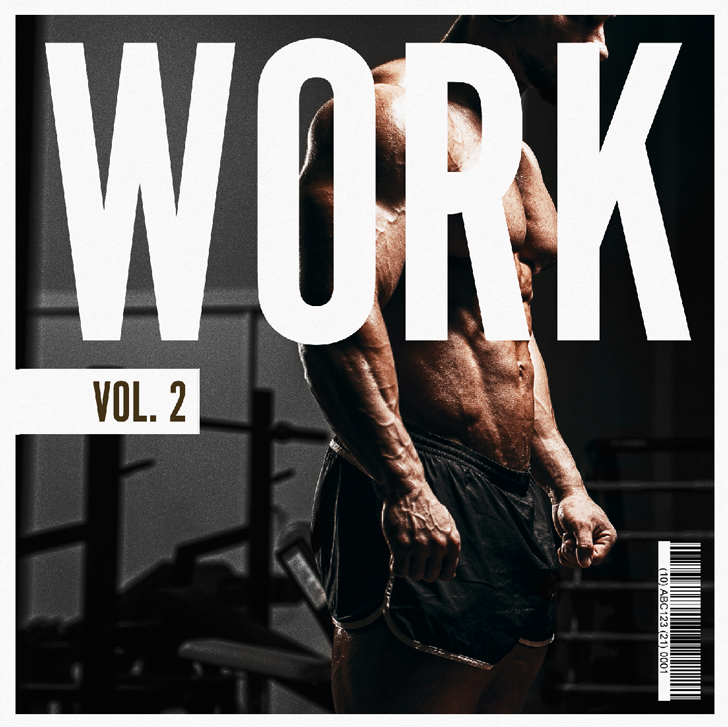
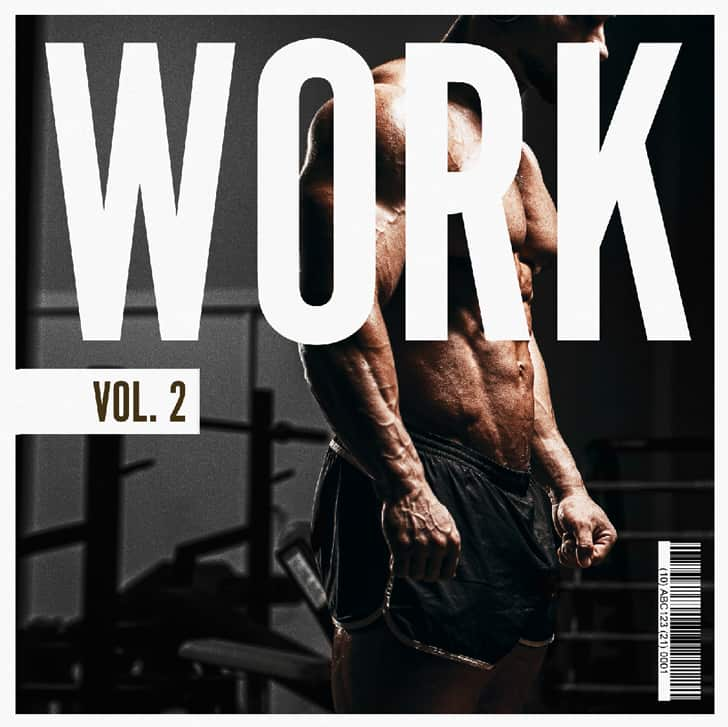
Redesigned image handling. Updated mobile layout to vertical

diff --git a/style.css b/style.css
@@ -1,1 +1,1 @@
-@import url("https://fonts.googleapis.com/css2?family=Padauk:wght@400;700&display=swap");*{margin:0;padding:0}:focus{outline:0}*,:after,:before{-webkit-box-sizing:border-box;box-sizing:border-box}body,html{width:100%;height:100%;background-color:#fff;font-family:'Padauk', sans-serif}.logo{display:block;position:fixed;left:120px;top:80px;width:292px;height:211px;background:url("img/head@2x.png");background-size:292px 211px;-webkit-transition:0.3s cubic-bezier(0.5, 1, 0.89, 1);-o-transition:0.3s cubic-bezier(0.5, 1, 0.89, 1);transition:0.3s cubic-bezier(0.5, 1, 0.89, 1)}@media (max-width:479px){.logo{left:50%;-webkit-transform:translateX(-50%) scale(0.8);-ms-transform:translateX(-50%) scale(0.8);transform:translateX(-50%) scale(0.8);top:3%}.logo.outofsight{opacity:0;top:0%}}.note{position:absolute;opacity:0;width:32px;height:32px;z-index:-2}.album-list{position:absolute;width:3600px;height:100%;z-index:1}@media (max-width:479px){.album-list{-webkit-transform:scale(0.6, 0.6);-ms-transform:scale(0.6, 0.6);transform:scale(0.6, 0.6);margin-left:-724px;bottom:2%}}.container-test{position:absolute;bottom:9%;width:4200px}@media (max-width:479px){.container-test{bottom:-20%}}.album{position:relative;display:inline-block;text-align:center;width:594px;height:403px;-webkit-transition:0.2s cubic-bezier(0.25, 1, 0.5, 1);-o-transition:0.2s cubic-bezier(0.25, 1, 0.5, 1);transition:0.2s cubic-bezier(0.25, 1, 0.5, 1)}.album.play{z-index:99}@media (min-width:480px){.album{margin-right:-120px}.album.play{-webkit-transform:translateX(-10%);-ms-transform:translateX(-10%);transform:translateX(-10%);margin-right:0px;margin-left:40px}}@media (max-width:479px){.album{margin-right:-120px}.album.play{-webkit-transform:translateX(-10%);-ms-transform:translateX(-10%);transform:translateX(-10%);margin-right:-10px}}.album a.CTAspotify{text-decoration:none;display:inline-block;position:absolute;right:114px;top:456px;color:#fff;background:#000;font-size:20px;font-weight:700;border:none;border-radius:50px;padding:4px 24px;opacity:0;-webkit-transition:0.3s cubic-bezier(0.5, 1, 0.89, 1);-o-transition:0.3s cubic-bezier(0.5, 1, 0.89, 1);transition:0.3s cubic-bezier(0.5, 1, 0.89, 1);z-index:5}.album.play a.CTAspotify{-webkit-transition-delay:2s;-o-transition-delay:2s;transition-delay:2s;opacity:1;-webkit-transform:translateY(-50px);-ms-transform:translateY(-50px);transform:translateY(-50px)}.album .albumName{position:absolute;display:inline-block;font-size:20px;font-weight:700;top:410px;left:115px;text-align:center;opacity:0;-webkit-transition:all 0.4s;-o-transition:all 0.4s;transition:all 0.4s}.album.play .albumName,.album:hover .albumName{opacity:1}.album .cover-shadow{left:0;position:absolute;display:inline-block;width:594px;height:403px;background:url("img/cover-shadow.png");background-size:594px 403px;z-index:0}.album .cover{Cursor:Pointer;webkit-tap-highlight-color:transparent;-webkit-user-select:none;-moz-user-select:none;-ms-user-select:none;user-select:none;position:absolute;left:19.6%;top:4.4%;width:364px;height:364px;z-index:1;cursor:pointer!important;user-select:none;-webkit-tap-highlight-color:transparent}.album .vinyl{webkit-tap-highlight-color:transparent;position:absolute;left:120px;top:5.2%;width:353px;height:358px;background-size:353px 358px;-webkit-transition:0.2s;-o-transition:0.2s;transition:0.2s;cursor:pointer;-webkit-user-select:none;-moz-user-select:none;-ms-user-select:none;user-select:none;-webkit-tap-highlight-color:transparent}.album .vinyl:after{display:block;position:absolute;content:"NEXT";top:170px;right:40px;color:rgba(255,255,255,0.8);font-size:18px;font-weight:700;-webkit-animation:pulse 6s ease-out alternate infinite;animation:pulse 6s ease-out alternate infinite}.album .vinyl.nonext:after{display:none}.album .vinyl .vinyl-img{width:353px;height:358px;background:url("img/vinyl.png");background-size:353px 358px;-webkit-animation:vinyl-rotate 10s linear infinite;animation:vinyl-rotate 10s linear infinite;-webkit-animation-play-state:paused;animation-play-state:paused;-webkit-user-select:none;-moz-user-select:none;-ms-user-select:none;user-select:none;-webkit-tap-highlight-color:transparent}.album.play .vinyl-img{-webkit-animation-play-state:running;animation-play-state:running}.album.play .vinyl{-webkit-transition:0.4s cubic-bezier(0.34, 1.56, 0.64, 1);-o-transition:0.4s cubic-bezier(0.34, 1.56, 0.64, 1);transition:0.4s cubic-bezier(0.34, 1.56, 0.64, 1);left:300px}.album .vinyl-shadow{position:absolute;left:30%;opacity:0;display:inline-block;width:594px;height:403px;background:url("img/vinyl-shadow.png");background-size:594px 403px;z-index:-1;-webkit-transition:0.2s linear;-o-transition:0.2s linear;transition:0.2s linear}.album.play .vinyl-shadow{opacity:1}.volume01 .cover{background:url("img/cover-1.jpg");background-size:364px 364px}.volume02 .cover{background:url("img/cover-2.jpg");background-size:364px 364px}.volume03 .cover{background:url("img/cover-3.jpg");background-size:364px 364px}.volume04 .cover{background:url("img/cover-4.jpg");background-size:364px 364px}.volume05 .cover{background:url("img/cover-5.jpg");background-size:364px 364px}.volume06 .cover{background:url("img/cover-6.jpg");background-size:364px 364px}.signup-form{display:inline-block;position:absolute;width:594px;height:403px;text-align:center;margin-top:100px;margin-left:150px;margin-right:50px}@media (max-width:479px){.signup-form{-webkit-transform:scale(1.2, 1.2);-ms-transform:scale(1.2, 1.2);transform:scale(1.2, 1.2)}}.signup-form h2{font-size:40px;font-weight:700;line-height:100%}.signup-form p{margin:24px auto;font-size:24px;line-height:120%;width:450px}.signup-form .mc-field-group{position:relative;display:inline-block;width:380px}.signup-form .button{position:absolute;display:inline-block;text-align:center;color:#fff;background:#f20001;font-size:20px;font-weight:700;border:none;border-radius:50px;padding:0px 24px;height:36px;top:8px;right:8px}.signup-form .button:hover{background:#bf0001}.signup-form .email{font-size:18px;line-height:0%;height:52px;border:1px solid #cbcbcb;color:#464646;border-radius:50px;width:100%;padding-left:16px;font-weight:400}.signup-form .email::-webkit-input-placeholder{color:#a7b1ba}.signup-form .email:-ms-input-placeholder{color:#a7b1ba}.signup-form .email::-ms-input-placeholder{color:#a7b1ba}.signup-form .email::placeholder{color:#a7b1ba}.signup-form .email:focus,.signup-form .email:hover{border-color:#66637e}.signup-form .contribute{color:#666;font-size:18px;display:inline-block}.signup-form .contribute a{color:#f20001}.album.play .vinyl img{-webkit-animation-play-state:running;animation-play-state:running}.modal{display:none;position:fixed;z-index:1;left:0;top:0;width:100%;height:100%;overflow:auto;background-color:#000;background-color:rgba(0,0,0,0.7)}.modal-content{position:relative;font-size:20px;background-color:#fefefe;margin:15% auto;padding:40px;border:1px solid #888;width:40%;border-radius:20px;text-align:center}@media (max-width:479px){.modal-content{width:100%;position:absolute;bottom:0;margin-bottom:0;border-radius:20px 20px 0 0;padding:40px 24px;paragraph-height:16px}}.modal-content p{margin-top:16px}.modal-content a{color:#f20001}.modal-content h3{font-size:40px}.close{position:absolute;right:12px;top:-3px;color:#aaa;font-size:38px;font-weight:bold}.close:focus,.close:hover{color:#000;text-decoration:none;cursor:pointer}@-moz-keyframes vinyl-rotate{0%{transform:rotate(0deg)}to{transform:rotate(360deg)}}@-webkit-keyframes vinyl-rotate{0%{-webkit-transform:rotate(0deg);transform:rotate(0deg)}to{-webkit-transform:rotate(360deg);transform:rotate(360deg)}}@-o-keyframes vinyl-rotate{0%{transform:rotate(0deg)}to{transform:rotate(360deg)}}@keyframes vinyl-rotate{0%{-webkit-transform:rotate(0deg);transform:rotate(0deg)}to{-webkit-transform:rotate(360deg);transform:rotate(360deg)}}@-moz-keyframes pulse{0%{opacity:1}50%{opacity:0}to{opacity:1}}@-webkit-keyframes pulse{0%{opacity:1}50%{opacity:0}to{opacity:1}}@-o-keyframes pulse{0%{opacity:1}50%{opacity:0}to{opacity:1}}@keyframes pulse{0%{opacity:1}50%{opacity:0}to{opacity:1}}
+@import url("https://fonts.googleapis.com/css2?family=Padauk:wght@400;700&display=swap");*{margin:0;padding:0}:focus{outline:0}*,:after,:before{-webkit-box-sizing:border-box;box-sizing:border-box}body,html{width:100%;height:100%;background-color:#fff;font-family:'Padauk', sans-serif;overflow-x:hidden}.logo{display:block;position:fixed;left:120px;top:80px;width:292px;height:211px;background:url("img/head@2x.png");background-size:292px 211px;-webkit-transition:0.3s cubic-bezier(0.5, 1, 0.89, 1);-o-transition:0.3s cubic-bezier(0.5, 1, 0.89, 1);transition:0.3s cubic-bezier(0.5, 1, 0.89, 1)}@media (max-width:479px){.logo{position:relative;left:50%;-webkit-transform:translateX(-50%) scale(0.8);-ms-transform:translateX(-50%) scale(0.8);transform:translateX(-50%) scale(0.8);top:3%}.logo.outofsight{opacity:0;top:0%}}.note{position:absolute;opacity:0;width:32px;height:32px;z-index:-2}.album-list{position:absolute;width:3600px;height:100%;z-index:1}@media (max-width:479px){.album-list{position:relative;width:100%;text-align:center}}.container-test{position:absolute;bottom:9%;width:4200px}@media (max-width:479px){.container-test{position:relative;width:100%;top:0}}.album{position:relative;display:inline-block;width:600px;height:400px;-webkit-transition:0.4s cubic-bezier(0.25, 1, 0.5, 1);-o-transition:0.4s cubic-bezier(0.25, 1, 0.5, 1);transition:0.4s cubic-bezier(0.25, 1, 0.5, 1)}.album.play{z-index:99}@media (min-width:480px){.album{margin-right:-120px}.album.play{-webkit-transform:translateX(-10%);-ms-transform:translateX(-10%);transform:translateX(-10%);margin-right:0px;margin-left:40px}}@media (max-width:479px){.album{display:block;width:100%}}.album a.CTAspotify{text-decoration:none;display:inline-block;position:absolute;right:114px;top:456px;color:#fff;background:#000;font-size:20px;font-weight:700;border:none;border-radius:50px;padding:4px 24px;opacity:0;-webkit-transition:0.3s cubic-bezier(0.5, 1, 0.89, 1);-o-transition:0.3s cubic-bezier(0.5, 1, 0.89, 1);transition:0.3s cubic-bezier(0.5, 1, 0.89, 1);z-index:5}.album.play a.CTAspotify{-webkit-transition-delay:2s;-o-transition-delay:2s;transition-delay:2s;opacity:1;-webkit-transform:translateY(-50px);-ms-transform:translateY(-50px);transform:translateY(-50px)}.album .albumName{position:absolute;display:inline-block;font-size:20px;font-weight:700;top:410px;left:115px;text-align:center;opacity:0;-webkit-transition:all 0.4s;-o-transition:all 0.4s;transition:all 0.4s}.album.play .albumName,.album:hover .albumName{opacity:1}.album .cover-shadow{position:absolute;display:block;width:100%;z-index:0}.album .cover{Cursor:Pointer;webkit-tap-highlight-color:transparent;-webkit-user-select:none;-moz-user-select:none;-ms-user-select:none;user-select:none;position:absolute;left:19.4%;top:4.4%;width:61.3%;z-index:1;cursor:pointer!important;user-select:none;-webkit-tap-highlight-color:transparent}.album .cover:hover{-webkit-filter:brightness(var(--value, 5));filter:brightness(var(--value, 5));--value:1.05}.album .vinyl{webkit-tap-highlight-color:transparent;position:absolute;width:100%;height:100%;left:0%;-webkit-transition:0.2s;-o-transition:0.2s;transition:0.2s;cursor:pointer;-webkit-user-select:none;-moz-user-select:none;-ms-user-select:none;user-select:none;-webkit-tap-highlight-color:transparent}.album .vinyl:after{display:block;position:absolute;content:"NEXT";top:170px;right:40px;color:rgba(255,255,255,0.8);font-size:18px;font-weight:700;-webkit-animation:pulse 6s ease-out alternate infinite;animation:pulse 6s ease-out alternate infinite}.album .vinyl.nonext:after{display:none}.album .vinyl:hover{-webkit-filter:brightness(var(--value, 5));filter:brightness(var(--value, 5));--value:1.8}.album .vinyl .vinyl-img{position:absolute;top:5%;left:19.8%;width:60%;-webkit-animation:vinyl-rotate 10s linear infinite;animation:vinyl-rotate 10s linear infinite;-webkit-animation-play-state:paused;animation-play-state:paused;-webkit-user-select:none;-moz-user-select:none;-ms-user-select:none;user-select:none;-webkit-tap-highlight-color:transparent}.album.play .vinyl-img{-webkit-animation-play-state:running;animation-play-state:running}.album.play .vinyl{-webkit-transition:0.4s cubic-bezier(0.34, 1.56, 0.64, 1);-o-transition:0.4s cubic-bezier(0.34, 1.56, 0.64, 1);transition:0.4s cubic-bezier(0.34, 1.56, 0.64, 1);left:33%}@media (max-width:479px){.album.play .vinyl{left:0;top:-32%}}.album .vinyl-shadow{position:absolute;right:5%;opacity:0;bottom:-2.5%;display:inline-block;width:100%;height:100%;z-index:-1;-webkit-transition:0.2s linear;-o-transition:0.2s linear;transition:0.2s linear}@media (max-width:479px){.album .vinyl-shadow{display:none}}.album.play .vinyl-shadow{opacity:1}.signup-form{display:inline-block;position:absolute;width:594px;height:403px;text-align:center;margin-top:100px;margin-left:150px;margin-right:50px}@media (max-width:479px){.signup-form{position:relative;width:100%;height:100%;margin:0 auto;padding:24px}}.signup-form *{max-width:100%}.signup-form h2{font-size:40px;font-weight:700;line-height:100%}@media (max-width:479px){.signup-form h2{font-size:32px}}.signup-form p{margin:24px auto;font-size:24px;line-height:120%;width:450px}@media (max-width:479px){.signup-form p{font-size:20px}}.signup-form .mc-field-group{position:relative;display:inline-block;width:380px}.signup-form .button{position:absolute;display:inline-block;text-align:center;color:#fff;background:#f20001;font-size:20px;font-weight:700;border:none;border-radius:50px;padding:0px 24px;height:36px;top:8px;right:8px}.signup-form .button:hover{background:#bf0001}.signup-form .email{font-size:18px;line-height:0%;height:52px;border:1px solid #cbcbcb;color:#464646;border-radius:50px;width:100%;padding-left:16px;font-weight:400}.signup-form .email::-webkit-input-placeholder{color:#a7b1ba}.signup-form .email:-ms-input-placeholder{color:#a7b1ba}.signup-form .email::-ms-input-placeholder{color:#a7b1ba}.signup-form .email::placeholder{color:#a7b1ba}.signup-form .email:focus,.signup-form .email:hover{border-color:#66637e}.signup-form .contribute{color:#666;font-size:18px;display:inline-block}.signup-form .contribute a{color:#f20001}.album.play .vinyl img{-webkit-animation-play-state:running;animation-play-state:running}.modal{display:none;position:fixed;z-index:1;left:0;top:0;width:100%;height:100%;overflow:auto;background-color:#000;background-color:rgba(0,0,0,0.7)}.modal-content{position:relative;font-size:20px;background-color:#fefefe;margin:15% auto;padding:40px;border:1px solid #888;width:40%;border-radius:20px;text-align:center}@media (max-width:479px){.modal-content{width:100%;position:absolute;bottom:0;margin-bottom:0;border-radius:20px 20px 0 0;padding:40px 24px;paragraph-height:16px}}.modal-content p{margin-top:16px}.modal-content a{color:#f20001}.modal-content h3{font-size:40px}.close{position:absolute;right:12px;top:-3px;color:#aaa;font-size:38px;font-weight:bold}.close:focus,.close:hover{color:#000;text-decoration:none;cursor:pointer}@-moz-keyframes vinyl-rotate{0%{transform:rotate(0deg)}to{transform:rotate(360deg)}}@-webkit-keyframes vinyl-rotate{0%{-webkit-transform:rotate(0deg);transform:rotate(0deg)}to{-webkit-transform:rotate(360deg);transform:rotate(360deg)}}@-o-keyframes vinyl-rotate{0%{transform:rotate(0deg)}to{transform:rotate(360deg)}}@keyframes vinyl-rotate{0%{-webkit-transform:rotate(0deg);transform:rotate(0deg)}to{-webkit-transform:rotate(360deg);transform:rotate(360deg)}}@-moz-keyframes pulse{0%{opacity:1}50%{opacity:0}to{opacity:1}}@-webkit-keyframes pulse{0%{opacity:1}50%{opacity:0}to{opacity:1}}@-o-keyframes pulse{0%{opacity:1}50%{opacity:0}to{opacity:1}}@keyframes pulse{0%{opacity:1}50%{opacity:0}to{opacity:1}}

diff --git a/index.html b/index.html
@@ -61,81 +61,92 @@
 
   <div class="album-list" data-scroll>
     <div class="container-test">
-      <div class="album volume01" volume="01">
-        <div class="cover"></div>
-        <div class="cover-shadow"></div>
+      <!-- <div class="volume01 test-album" volume="01">
+        <img class="test-cover" src="img/cover-1.jpg"></img>
+        <img class="test-cover-shadow" src="img/cover-shadow.png"></img>
         <div class="vinyl">
-          <div class="vinyl-img"></div>
+          <img class="test-vinyl-img" src="img/vinyl.png"></img>
         </div>
-        <div class="vinyl-shadow"></div>
+        <img class="test-vinyl-shadow" src="img/vinyl-shadow.png"></img>
+        <div class="albumName">⌨ Minimal</div>
+        <a href=https://open.spotify.com/playlist/70sNFtXNqIXS4SCDyfWVrm?si=2vELqOBgToypXQILyvn7ig" target="_blank"
+          class="CTAspotify">Open in Spotify</a>
+      </div> -->
+
+
+      <div class="album volume01" volume="01">
+        <img class="cover" src="img/cover-1.jpg"></img>
+        <img class="cover-shadow" src="img/cover-shadow.png"></img>
+        <div class="vinyl">
+          <img class="vinyl-img" src="img/vinyl-1.png"></img>
+          <img class="vinyl-shadow" src="img/vinyl-shadow.png"></img>
+        </div>
         <div class="albumName">⌨ Minimal</div>
         <a href=https://open.spotify.com/playlist/70sNFtXNqIXS4SCDyfWVrm?si=2vELqOBgToypXQILyvn7ig" target="_blank"
           class="CTAspotify">Open in Spotify</a>
       </div>
 
       <div class="album volume02" volume="02">
-        <div class="cover"></div>
-        <div class="cover-shadow"></div>
+        <img class="cover" src="img/cover-2.jpg"></img>
+        <img class="cover-shadow" src="img/cover-shadow.png"></img>
         <div class="vinyl">
-          <div class="vinyl-img"></div>
+          <img class="vinyl-img" src="img/vinyl-2.png"></img>
+          <img class="vinyl-shadow" src="img/vinyl-shadow.png"></img>
         </div>
-        <div class="vinyl-shadow"></div>
         <div class="albumName">💪 Gym</div>
         <a href=https://open.spotify.com/playlist/1LcXPP7TjLNbv7FKVeFWHH?si=Q_Fx4zAzTo6bOUac6PD9-w" target="_blank"
           class="CTAspotify">Open in Spotify</a>
       </div>
 
       <div class="album volume03" volume="03">
-        <div class="cover"></div>
-        <div class="cover-shadow"></div>
+        <img class="cover" src="img/cover-3.jpg"></img>
+        <img class="cover-shadow" src="img/cover-shadow.png"></img>
         <div class="vinyl">
-          <div class="vinyl-img"></div>
+          <img class="vinyl-img" src="img/vinyl-3.png"></img>
+          <img class="vinyl-shadow" src="img/vinyl-shadow.png"></img>
         </div>
-        <div class="vinyl-shadow"></div>
         <div class="albumName">🙏 4:20</div>
         <a href=https://open.spotify.com/playlist/47NHtuHJX7W4sRU7iyYlNH?si=9ChqMmygRcuG4j9bs1EYmw" target="_blank"
           class="CTAspotify">Open in Spotify</a>
       </div>
 
       <div class="album volume04" volume="04">
-        <div class="cover"></div>
-        <div class="cover-shadow"></div>
+        <img class="cover" src="img/cover-4.jpg"></img>
+        <img class="cover-shadow" src="img/cover-shadow.png"></img>
         <div class="vinyl">
-          <div class="vinyl-img"></div>
+          <img class="vinyl-img" src="img/vinyl-4.png"></img>
+          <img class="vinyl-shadow" src="img/vinyl-shadow.png"></img>
         </div>
-        <div class="vinyl-shadow"></div>
         <div class="albumName">🎹 Piano</div>
         <a href=https://open.spotify.com/playlist/2lBuQKHMUSk7gjxEG4yNjw?si=F5LhHxe8S96WdjOPsWlKdA" target="_blank"
           class="CTAspotify">Open in Spotify</a>
       </div>
 
       <div class="album volume05" volume="05">
-        <div class="cover"></div>
-        <div class="cover-shadow"></div>
+        <img class="cover" src="img/cover-5.jpg"></img>
+        <img class="cover-shadow" src="img/cover-shadow.png"></img>
         <div class="vinyl">
-          <div class="vinyl-img"></div>
+          <img class="vinyl-img" src="img/vinyl-5.png"></img>
+          <img class="vinyl-shadow" src="img/vinyl-shadow.png"></img>
         </div>
-        <div class="vinyl-shadow"></div>
         <div class="albumName">👊 Hardbass</div>
         <a href=https://open.spotify.com/playlist/0kcz2k6tA4Mk0EWv1C9q7c?si=V4MjIi3WToCxW99KbMzYFw" target="_blank"
           class="CTAspotify">Open in Spotify</a>
       </div>
 
       <div class="album volume06" volume="06">
-        <div class="cover"></div>
-        <div class="cover-shadow"></div>
+        <img class="cover" src="img/cover-6.jpg"></img>
+        <img class="cover-shadow" src="img/cover-shadow.png"></img>
         <div class="vinyl">
-          <div class="vinyl-img"></div>
+          <img class="vinyl-img" src="img/vinyl-6.png"></img>
+          <img class="vinyl-shadow" src="img/vinyl-shadow.png"></img>
         </div>
-        <div class="vinyl-shadow"></div>
         <div class="albumName">🕶 Synthwave</div>
         <a href=https://open.spotify.com/playlist/68T9XQJnXFaJirMeVMNjeu?si=oE4ugHZIT461NVt3MAVLEQ" target="_blank"
           class="CTAspotify">Open in Spotify</a>
       </div>
 
       <div class="signup-form">
-        <!-- Begin Mailchimp Signup Form -->
-        <!-- Begin Mailchimp Signup Form -->
         <div id="mc_embed_signup">
           <form action="https://gmail.us7.list-manage.com/subscribe/post?u=28e456632c999662cbb8c3ccf&amp;id=a423ad180b"
             method="post" id="mc-embedded-subscribe-form" name="mc-embedded-subscribe-form" class="validate"
@@ -165,7 +176,6 @@
         </form>
       </div>
     </div>
-    <!--End mc_embed_signup-->
   </div>
 
   <div id="modalMore" class="modal">

diff --git a/js/main.js b/js/main.js
@@ -97,6 +97,7 @@ function playPause() {
 }
 
 function next() {
+    if (!playing) return
     if(!nonext)
     {
         nonext = true
